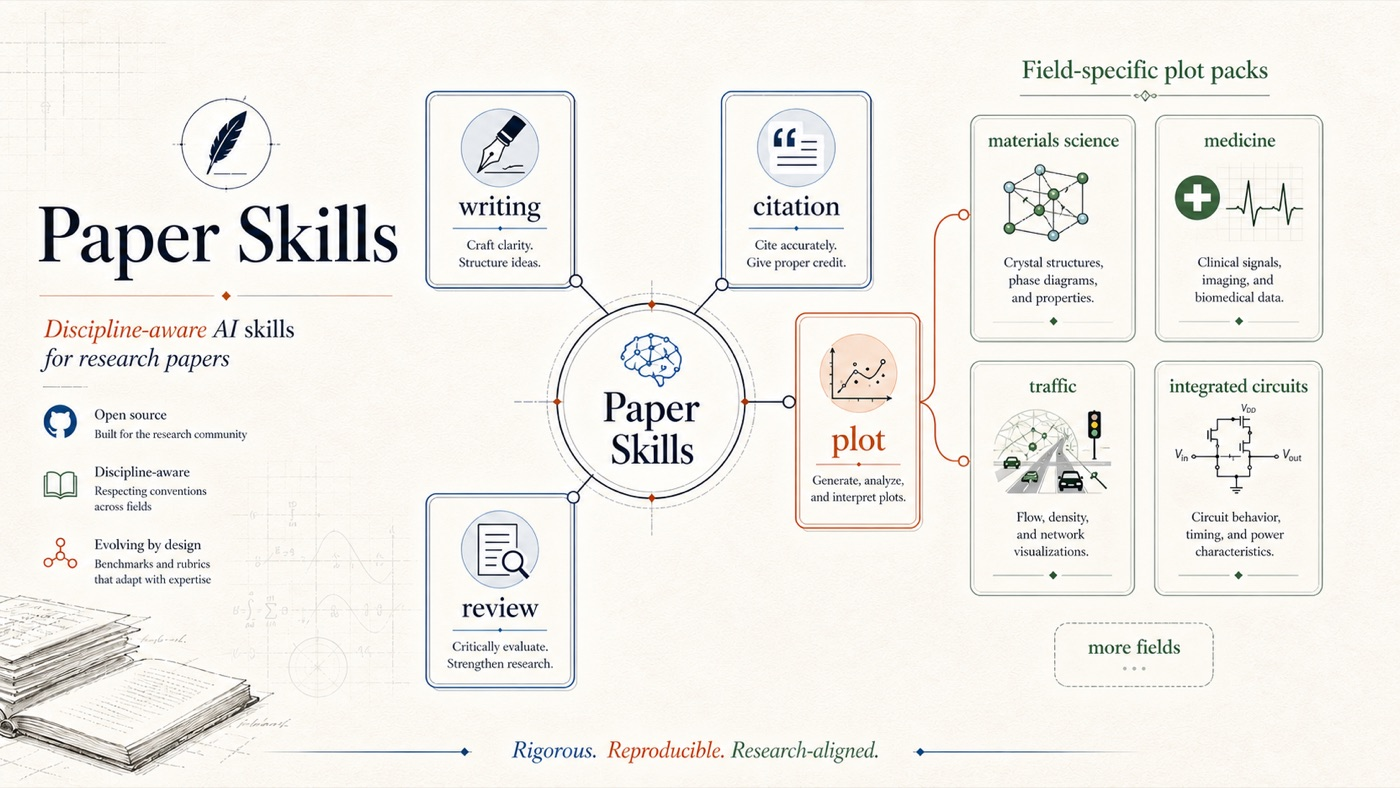
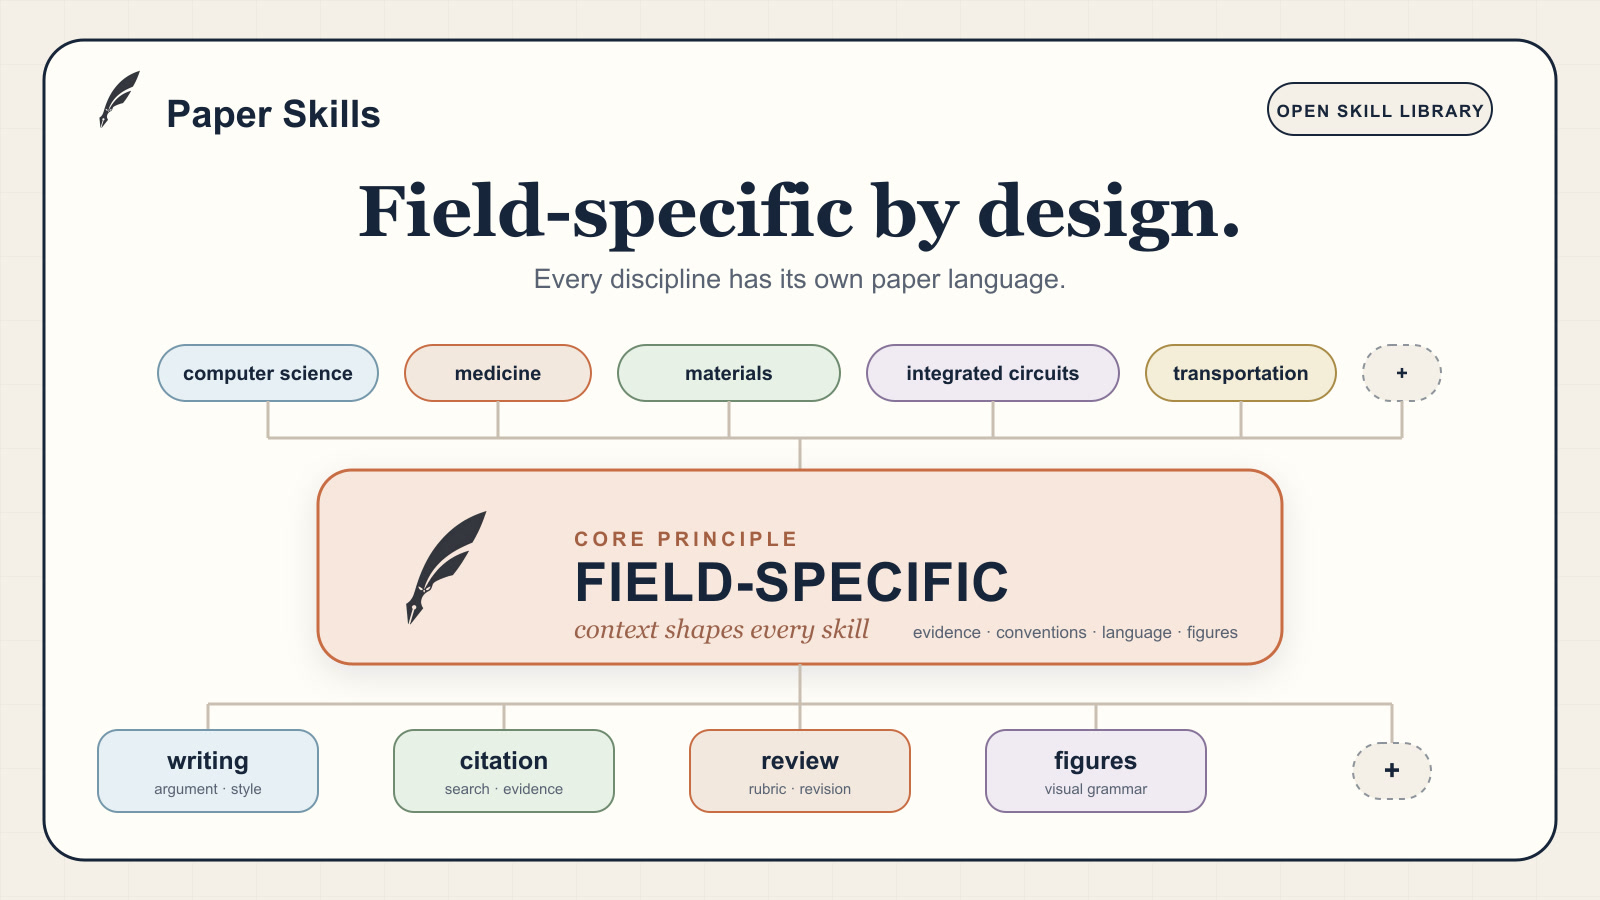
Add skill2 and refresh README

diff --git a/README.md b/README.md
@@ -1,9 +1,10 @@
 <div align="center">
+  <img src="assets/paper-skills-icon.png" width="96" alt="Paper Skills icon">
   <h1>Paper Skills</h1>
-  <p><strong>Journal-ready AI skills for every research discipline.</strong></p>
+  <p><strong>Field-specific AI skills for research papers.</strong></p>
   <p>
-    A public skill library for writing, citations, review, venue conventions,
-    and field-specific scientific figures.
+    Writing, citations, review, venue conventions, and scientific figures —
+    shaped by each discipline.
   </p>
   <p>
     <a href="README.zh.md">中文</a>
@@ -60,6 +61,18 @@ Initial domain seeds:
 
 Planned community directions include materials science, medicine and
 biomedicine, traffic and transportation, biology, and finance.
+
+## Contributors
+
+Paper Skills credits contributors by the fields and work they contribute, not
+only by commit count.
+
+| Contributor | Background | Fields | Contributions |
+| --- | --- | --- | --- |
+| [Bubu](https://github.com/MisterBrookT) | @KoinaAI · CS PhD @ ZJU | Computer science, scientific visualization, AI agents | Creator, project direction, `plot` |
+
+Contributed a skill, domain pack, benchmark, review, or integration? Add your
+name, background, fields, and contribution to this table in the same pull request.
 
 ## Repository Layout
 